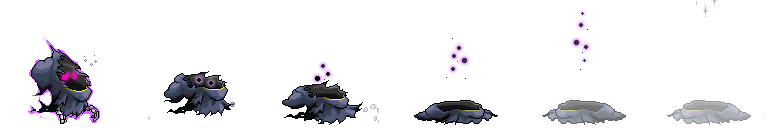
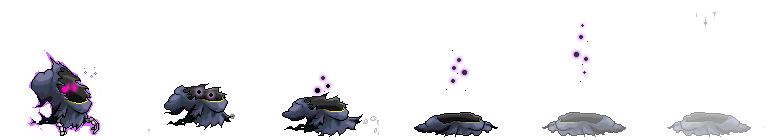
finished overlay

diff --git a/js/entity/level.js b/js/entity/level.js
@@ -8,6 +8,10 @@ function Level( level, parent ) {
 	var data = level.map;
 	var spawn = level.spawnNumber;
 
+	var cooldown = 0;
+	var killed = 0;
+	var sacrificed = 0;
+
 	this.map = [];
 	this.spell = null;
 
@@ -30,6 +34,23 @@ function Level( level, parent ) {
 		ctx.drawImage(imgPlatform, f*m.t, 0, m.t, m.t, x*m.t, y*m.t, m.t, m.t );
 	}
 
+	function checkLevelComplete() {
+		if( killed + sacrificed >=  level.spawnNumber ) {
+			var stars = ( sacrificed >= level.bronze ) + ( sacrificed >= level.silver ) + ( sacrificed >= level.gold );
+			parent.blocking = [new FinishedOverlay( stars )];
+		}
+	}
+
+	this.killKultling = function() {
+		killed++;
+		checkLevelComplete();
+	};
+
+	this.sacrificeKultling = function() {
+		sacrificed++;
+		checkLevelComplete();
+	};
+
 	this.getTile = function( x, y ) {
 		if( x < 0 || x > m.w-1 || y < 0 || y > m.h-1 ) return null;
 		return this.map[x][y];
@@ -50,10 +71,7 @@ function Level( level, parent ) {
 	};
 
 	this.entities = [{
-		draw: function(ctx) {
-			ctx.drawImage( canvas, 0, 0 );
-		},
-
+		draw: function(ctx) { ctx.drawImage( canvas, 0, 0 ); },
 		update: function(delta) {
 			if( spawn ) {
 				cooldown -= delta;
@@ -66,6 +84,8 @@ function Level( level, parent ) {
 		}
 	}];
 
+
+	// Generate map images and convert entities
 	for (var x = 0; x < m.w; x++) {
 		this.map[x] = [];
 
@@ -100,8 +120,7 @@ function Level( level, parent ) {
 		}
 	}
 
-	var cooldown = 0;
-
+	// display start and goal
 	this.entities.push(new AnimatedImage("img/altar.png", this.goal.prd(m.t), 3, 200));
 	this.entities.push(new ImageEntity("img/spawn.png", this.start.prd(m.t) ));
 }

diff --git a/js/entity/kultling.js b/js/entity/kultling.js
@@ -1,4 +1,5 @@
 g.add('img/kultling.png');
+g.add('img/kultling_tot.png');
 
 function Kultling( parent ) {
 	this.level = parent;
@@ -40,13 +41,15 @@ Kultling.prototype.update = function( delta ) {
 };
 
 Kultling.prototype.die = function() {
-	console.log( 'toooooooot' );
 	arrayRemove( this.level.entities, this );
+	this.level.entities.push( new Animation('img/kultling_tot.png', this.position, 6, 120, this.level));
+	this.level.killKultling();
 };
 
 Kultling.prototype.sacrifice = function() {
-	console.log( 'victory' );
 	arrayRemove( this.level.entities, this );
+	this.level.entities.push( new Animation('img/kultling_tot.png', this.position, 6, 120, this.level));
+	this.level.sacrificeKultling();
 };
 
 Kultling.prototype.tileEntered = function() {

diff --git a/js/ui/image.js b/js/ui/image.js
@@ -11,3 +11,17 @@ function AnimatedImage( img, pos,  frames, speed) {
 	this.update = function(d) { this.conuter.update(d); }
 	this.draw = function(ctx) { this.sprite.draw( ctx, pos.x, pos.y, this.conuter.frame % frames ); }
 }
+
+function Animation( img, pos, frames, speed, parent) {
+	this.conuter = new Framecounter(speed);
+	this.sprite = new AnimationSprite(img, frames);
+
+	this.update = function(d) {
+		this.conuter.update(d);
+		if(this.conuter.frame>=frames)
+			arrayRemove( parent.entities, this );
+	};
+
+	this.draw = function(ctx) { this.sprite.draw( ctx, pos.x, pos.y, this.conuter.frame ); }
+}
+

diff --git a/js/scene/level.js b/js/scene/level.js
@@ -42,15 +42,3 @@ function LevelScene( i ) {
 }
 
 LevelScene.prototype = new Scene();
-
-LevelScene.prototype.kultlingKilled = function() {
-
-};
-
-LevelScene.prototype.kultlingSacrificed = function() {
-
-};
-
-LevelScene.prototype.checkComplete = function() {
-
-};

diff --git a/data/levels.js b/data/levels.js
@@ -1,6 +1,6 @@
 var levels = [
 	{
-		spell: "frost",
+		spell: "rain",
 
 		spawnRate: 1600,
 		spawnNumber: 5,
